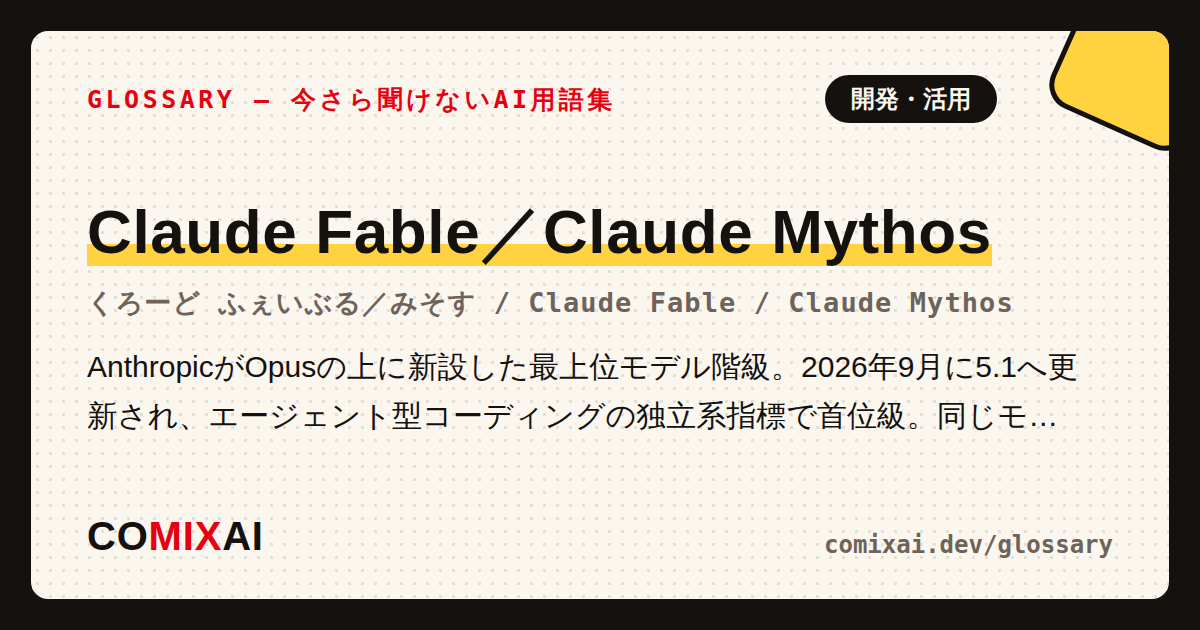
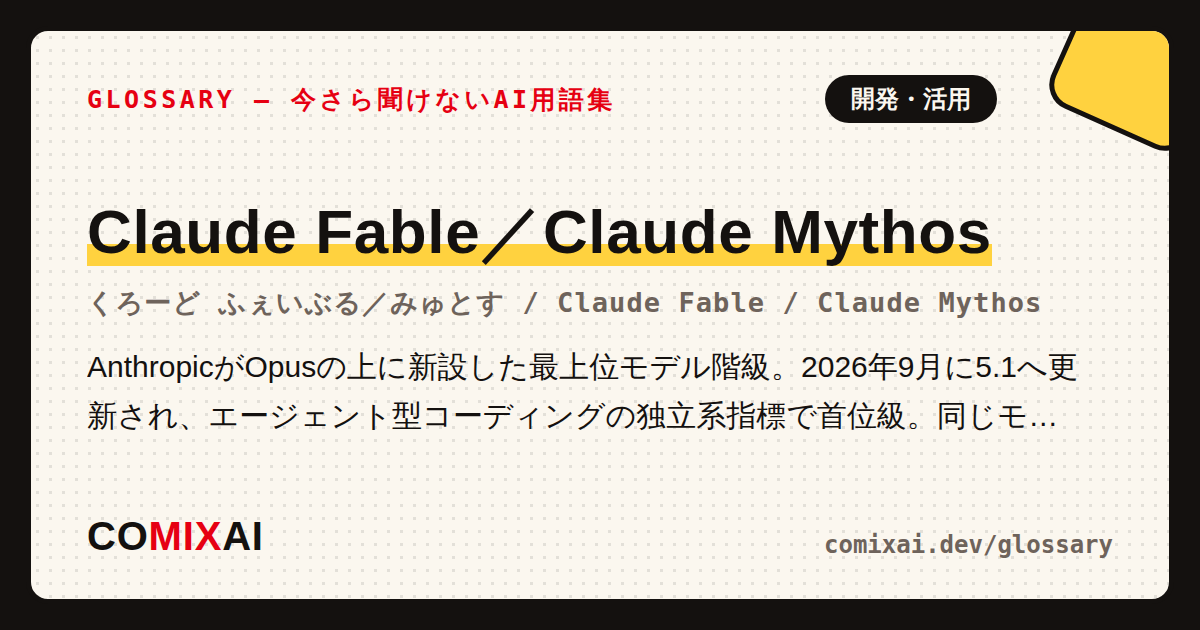
fix: Mythosの読みを「みそす」から「みゅとす」に直す (#185)
ギリシャ語ミュトス（μῦθος）由来。日本語メディアの標準表記「クロード・ミュトス」に合わせ、読みが焼き込まれたOGP画像も再生成。

Claude-Session: https://claude.ai/code/session_013qSYc6TCuE6RvMLFZzvZ52

Changed region(s): [[0.3392, 0.4524, 0.8633, 0.5127]]

diff --git a/src/app/glossary/terms-wave3.ts b/src/app/glossary/terms-wave3.ts
@@ -66,7 +66,7 @@ export const TERMS_WAVE3: GlossaryTerm[] = [
   {
     slug: "claude-fable",
     term: "Claude Fable／Claude Mythos",
-    yomi: "くろーど ふぇいぶる／みそす",
+    yomi: "くろーど ふぇいぶる／みゅとす",
     en: "Claude Fable / Claude Mythos",
     category: "開発・活用",
     short:
